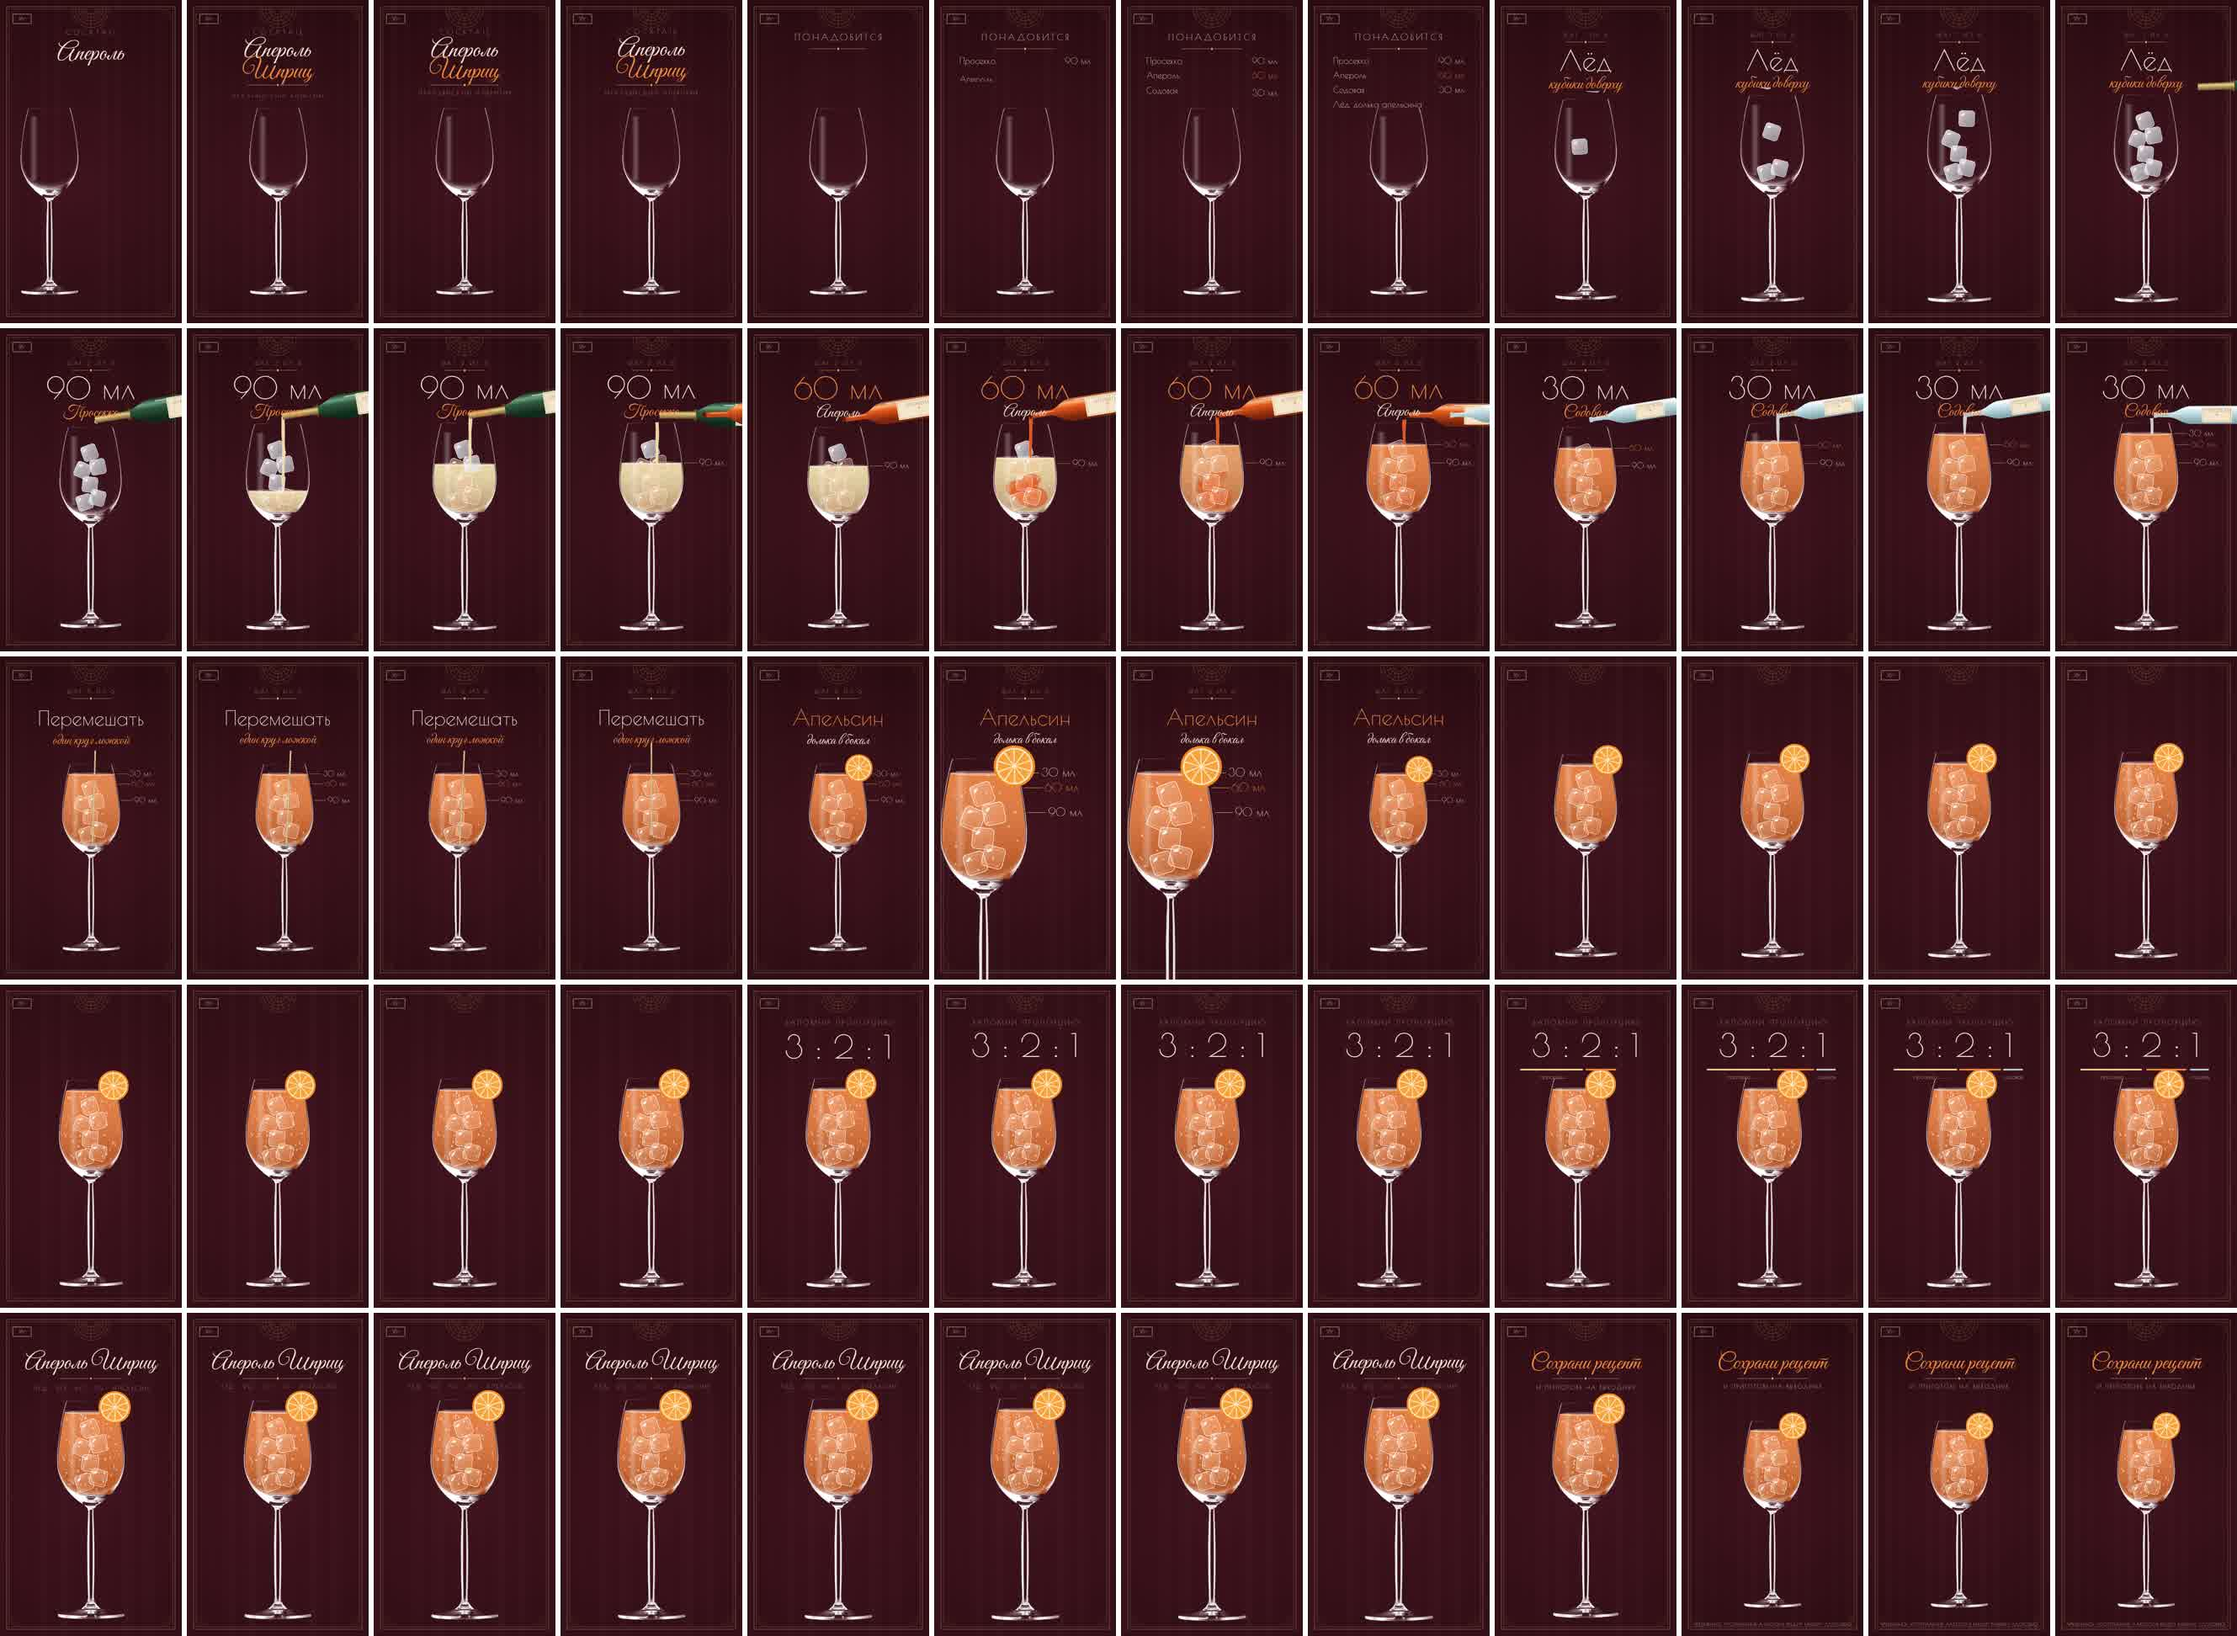
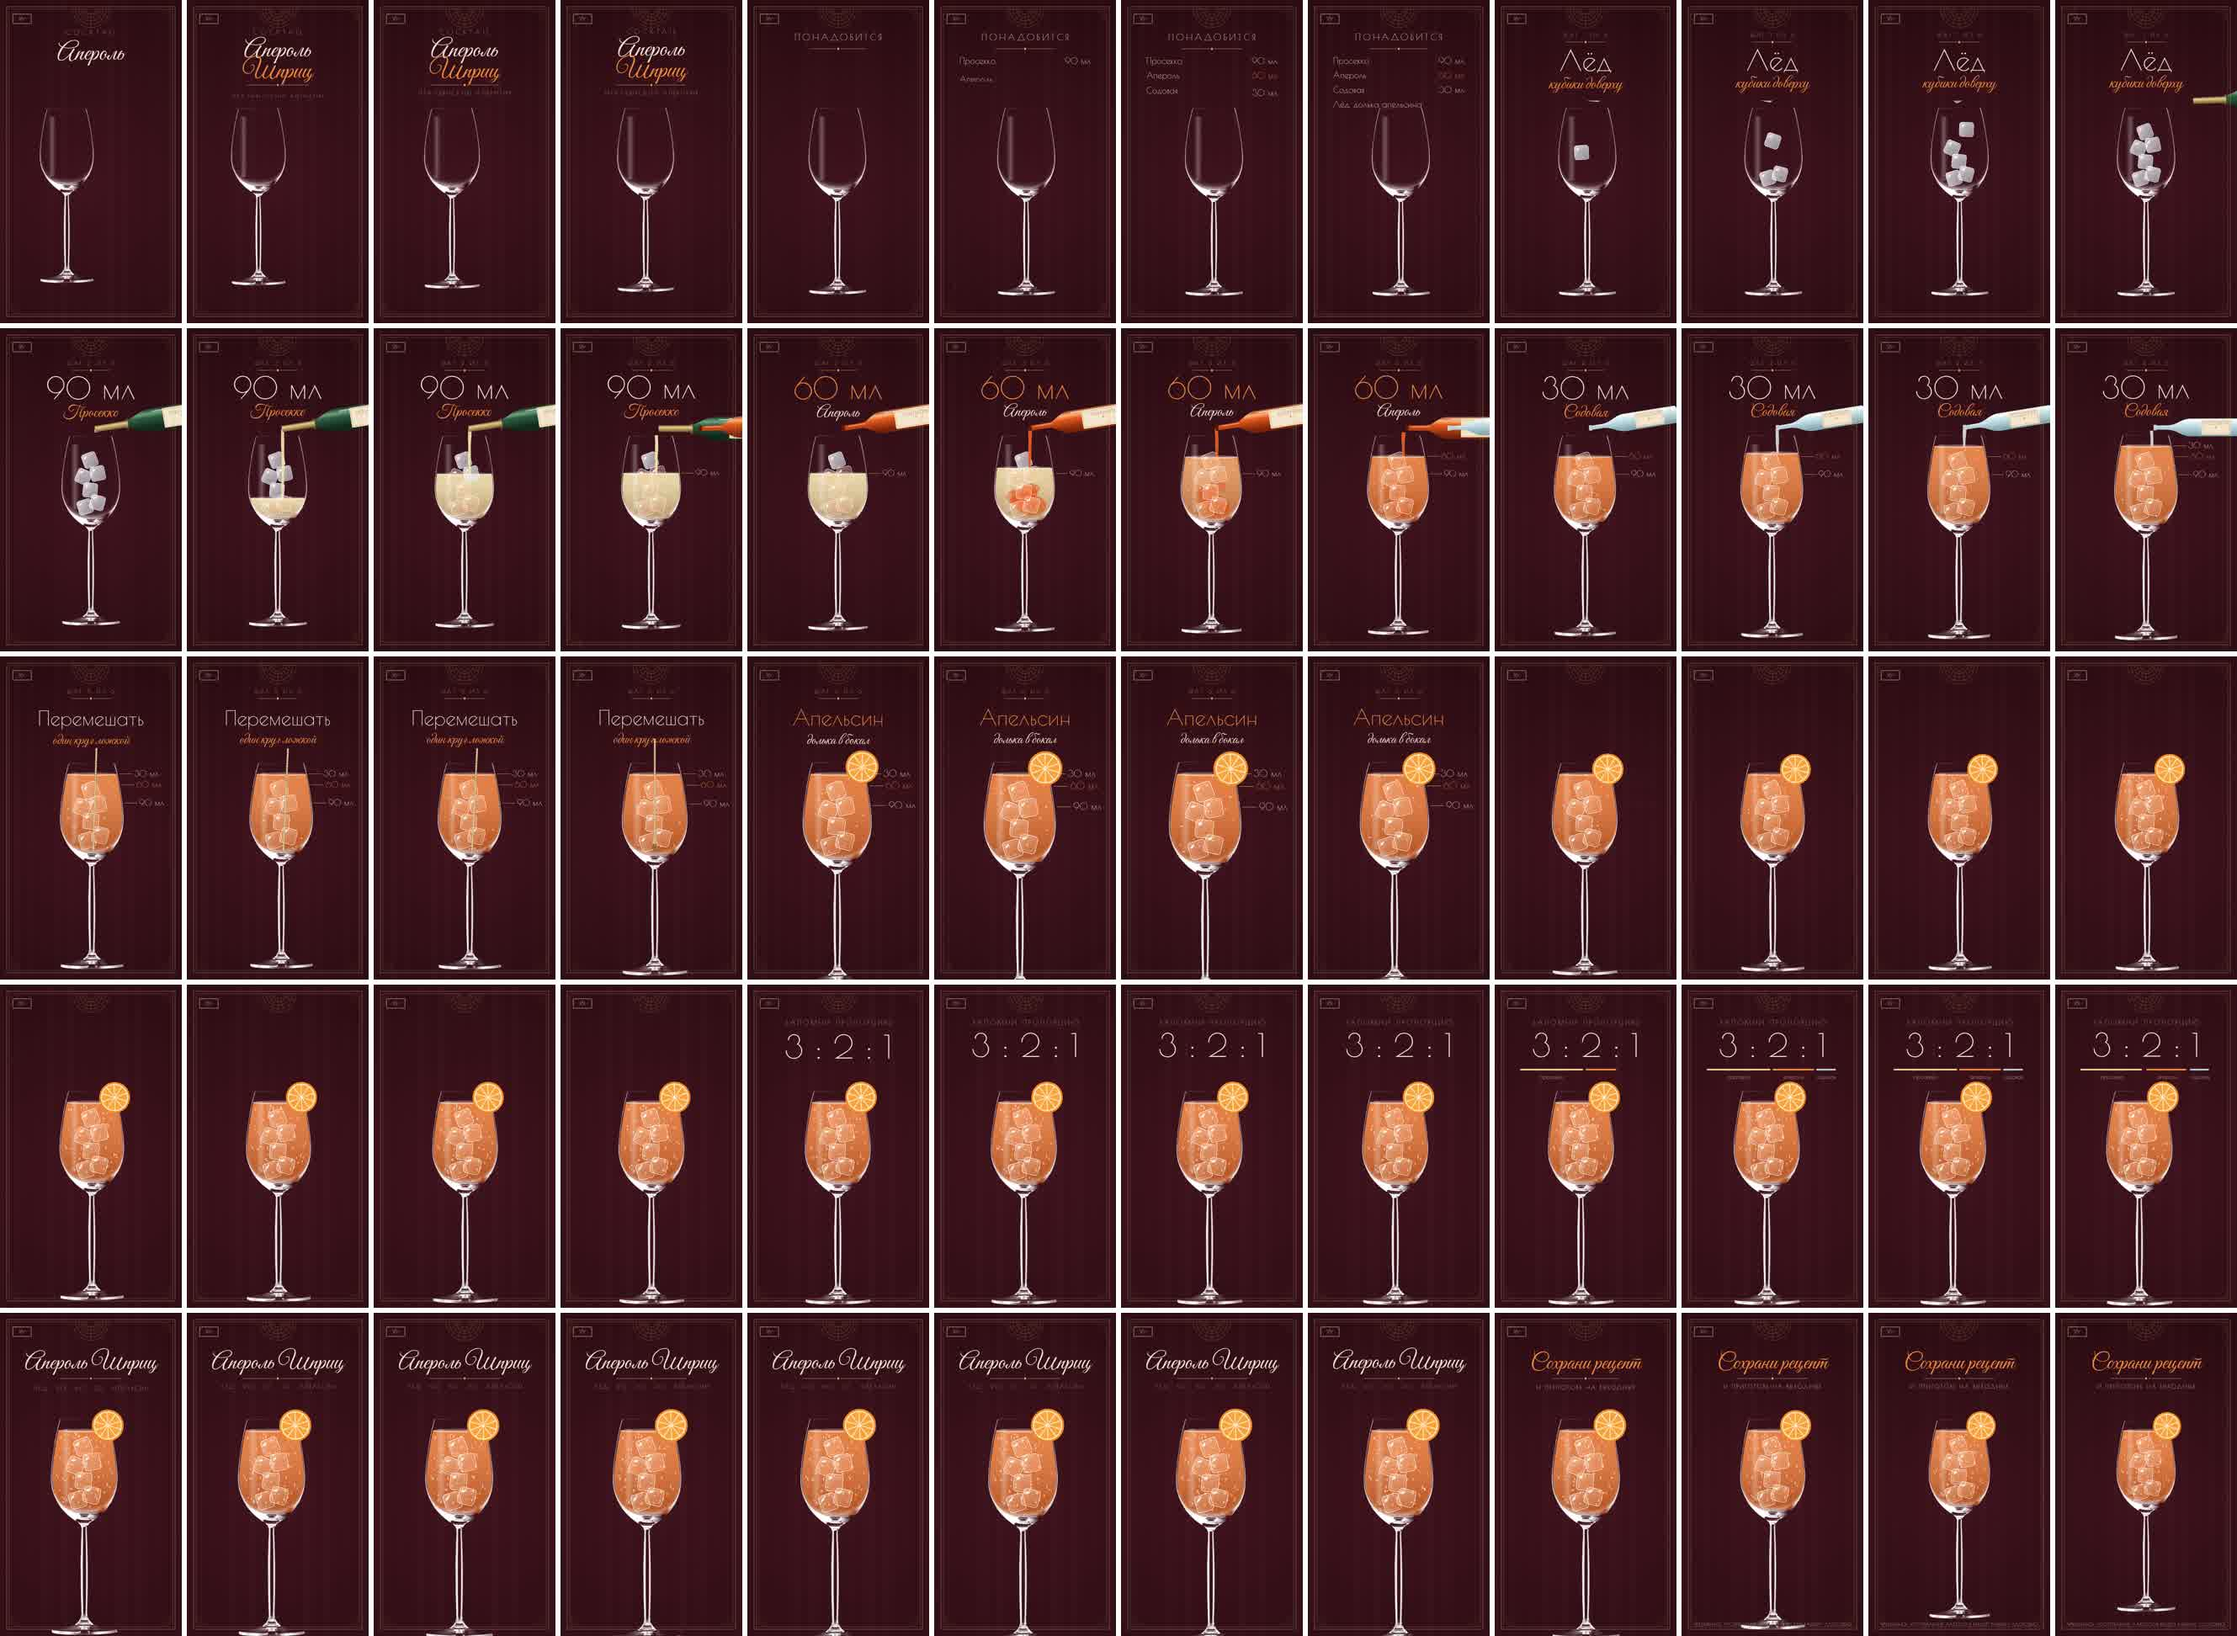
Smooth single-spline camera path instead of whip pans and pulses
Claude-Session: https://claude.ai/code/session_01SGWJ4SLMudwh6zrv9sFXaG

diff --git a/cocktails/01-aperol-spritz/scene.js b/cocktails/01-aperol-spritz/scene.js
@@ -121,34 +121,35 @@ function levelTags(c,t){TAGS=TAGS||tagLayout();const fade=1-seg(t,bar(9),.4);if(
     c.beginPath();c.rect(x0+76,ty-46,W,60);c.clip();txt(c,s.amt,x0+80,ty+14+(1-p)*50,'46px Deco',s.key==='ape'?ORANGE:INK,'left');c.restore();}}
 // ---------- кадр ----------
 // камера: s/x — слой бокала, bs/bx — слой бархата (параллакс). Dolly zoom: бархат растёт, бокал держит размер.
-function camera(t){let s=1,x=0,bs=1,bx=0;
-  const pulse=(t0,amp,dec=7)=>t<t0?0:amp*Math.exp(-(t-t0)*dec);
-  // въезд: бокал влетает слева с пружиной, фон с параллаксом и dolly zoom
-  {const p=spring(t-.15,1.5,.62);x+=lerp(-900,0,p);bx+=lerp(-300,0,p);bs*=lerp(1.3,1,eoe(seg(t,.15,1.1)));}
-  // смена шага (такты 3–8): whip pan, направление чередуется
-  for(let b=3;b<=8;b++){const t0=bar(b),dir=b%2?1:-1;if(t>=t0-.12&&t<t0+.6){const p=t<t0?-(t0-t)/.12:eoe(seg(t,t0,.42));
-      if(p<0){x-=dir*520*(-p)**2;bx-=dir*160*(-p)**2;}else{x+=dir*420*(1-p);bx+=dir*130*(1-p);}}}
-  // такты 3–6: наезд во время шага + пульс на каждую долю
-  for(let b=3;b<=6;b++){const p=seg(t,bar(b),2);if(p>0&&p<1){s*=1+.11*eoe(p*.9);bs*=1+.03*p;}
-    for(let k=0;k<4;k++)s*=1+pulse(bar(b)+k*.5,.022);}
-  // такт 7: перемешивание — короткий truck туда-обратно
-  {const p=seg(t,bar(7)+.4,1.4);if(p>0&&p<1){const k=Math.sin(2*Math.PI*eio(p));x+=55*k;bx+=18*k;}}
-  // такт 8: snap-zoom на дольку, пауза, отъезд
-  {const tz=bar(8)+.45;const pin=eoe(seg(t,tz,.28)),pout=eio(seg(t,tz+.95,.5));const k=pin*(1-pout);s*=1+.5*k;bs*=1+.1*k;}
-  // такт 9: быстрый dolly zoom на сильную долю, затем медленный дрейф
-  {const p=eoe(seg(t,bar(9),1.1)),drift=seg(t,bar(9)+1.1,2.9),back=eio(seg(t,bar(15),.9));const k=(p*.8+.2*drift)*(1-back);s*=1+.12*k;bs*=1+.55*k;}
-  // такты 11–12: медленный truck
-  {const p=seg(t,bar(11),4);if(p>0&&p<1){const k=Math.sin(Math.PI*eio(p));x-=60*k;bx-=22*k;}}
-  // такт 13: рывок наезда, потом медленно
-  {const p=eoe(seg(t,bar(13),.45))*.6+.4*seg(t,bar(13)+.45,3.55),back=eio(seg(t,bar(15),.9));s*=1+.07*p*(1-back);}
-  return{s,x,bs,bx};}
+// Плавная камера: одна непрерывная траектория по ключам, сплайн Эрмита (скорость без скачков).
+// s — масштаб сцены, x/y — сдвиг сцены, bs/bx — масштаб и сдвиг бархата (параллакс и dolly zoom).
+const SL=[GX+150,0];// фокус на дольке задаётся сдвигом, точка опоры не меняется
+const CAM_KEYS=[
+ // t     s     x     y    bs    bx
+ [0,    .93, -150,   0, 1.14, -50],
+ [2.5,  1.00,  0,    0, 1.00,   0],
+ [6,    1.01,  0,    0, 1.00,   0],
+ [12,   1.10,  0,    0, 1.04,   0],
+ [13.5, 1.11, 30,    0, 1.05,  10],
+ [15.2, 1.26,-40,   0, 1.08,  -6],
+ [16.6, 1.12,  0,    0, 1.10,   0],
+ [20,   1.14,  0,    0, 1.42,   0],
+ [24,   1.15,-40,    0, 1.40, -14],
+ [28,   1.20,  0,    0, 1.30,   0],
+ [30,   1.02,  0,    0, 1.02,   0]];
+function camera(t){const K=CAM_KEYS,n=K.length;let i=0;while(i<n-2&&t>K[i+1][0])i++;
+  const t0=K[i][0],t1=K[i+1][0],h=t1-t0,u=cl((t-t0)/h);
+  const tan=(j,c)=>{if(j<=0||j>=n-1)return 0;return (K[j+1][c]-K[j-1][c])/(K[j+1][0]-K[j-1][0]);};
+  const H=c=>{const p0=K[i][c],p1=K[i+1][c],m0=tan(i,c)*h,m1=tan(i+1,c)*h,u2=u*u,u3=u2*u;
+    return (2*u3-3*u2+1)*p0+(u3-2*u2+u)*m0+(-2*u3+3*u2)*p1+(u3-u2)*m1;};
+  return{s:H(1),x:H(2),y:H(3),bs:H(4),bx:H(5)};}
 // фокус наезда на дольку смещён вправо-вверх: pivot сцены
-const PIV=[GX,1350],BPIV=[GX,1100];
+const PIV=[GX,700],BPIV=[GX,1100];
 function frame(t){const c=X;c.setTransform(1,0,0,1,0,0);const C=camera(t);
   c.fillStyle=BG;c.fillRect(0,0,W,H);
   c.save();c.translate(BPIV[0]+C.bx,BPIV[1]);c.scale(C.bs,C.bs);c.translate(-BPIV[0],-BPIV[1]);velvetBg(c,t);c.restore();
-  const z=C.s;const zp=t>=bar(8)&&t<bar(9)?[GX+150,RIM+60]:PIV;
-  c.save();c.translate(zp[0]+C.x,zp[1]);c.scale(z,z);c.translate(-zp[0],-zp[1]);glassShadow(c);
+  const z=C.s;
+  c.save();c.translate(PIV[0]+C.x,PIV[1]+C.y);c.scale(z,z);c.translate(-PIV[0],-PIV[1]);glassShadow(c);
   const ml=liquidMl(t),lvl=levelY(ml),col=liquidColor(t);
   drawLiquid(c,t,lvl,col);drawIce(c,t,lvl);for(const s of STEPS)stream(c,t,s);spoon(c,t);
   glassFront(c,t,seg(t,bar(9),2));orange(c,t);for(const s of STEPS)bottle(c,t,s);levelTags(c,t);
